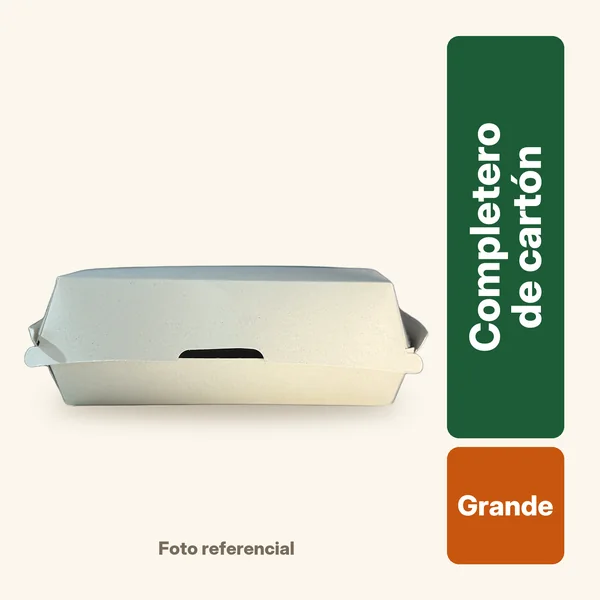
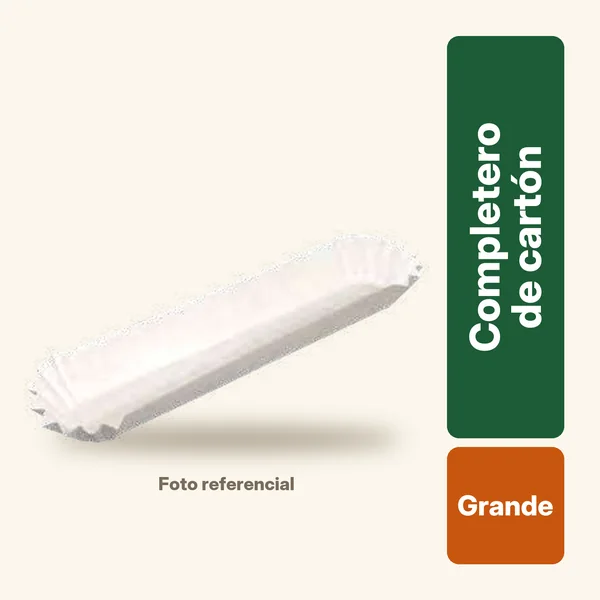
Precios por chat: caja torta kraft chica, completeros prepicado y grande (paquetes); foto del completero grande (bandeja, no caja cerrada)

Changed region(s): [[0.03, 0.42, 0.72, 0.84], [0.24, 0.9, 0.51, 0.93]]

diff --git a/carta/index.html b/carta/index.html
@@ -1529,9 +1529,9 @@ const LOCALES = {
       {cod:"PLA028",cat:"Envases y contenedores",nombre:"Cúpula torta chica lisa con tapa",detalle:"Precio por unidad",precio:650,stock:20,nuevo:true,pm:600},
       {cod:"CAR033",cat:"Cajas y bandejas de cartón",nombre:"Caja torta grande blanca",detalle:"Precio por unidad",precio:760,stock:39},
       {cod:"CAR025",cat:"Cajas y bandejas de cartón",nombre:"Caja genérica chica",detalle:"Precio por paquete de 25 u",precio:17000},
-      {cod:"CAR034",cat:"Cajas y bandejas de cartón",nombre:"Caja torta kraft chica",detalle:"Precio por unidad",precio:734,stock:19},
+      {cod:"CAR034",cat:"Cajas y bandejas de cartón",nombre:"Caja torta kraft chica",detalle:"Precio por unidad",precio:450,stock:19},
       {cod:"CAR017",cat:"Cajas y bandejas de cartón",nombre:"Bandeja redonda N° 10",detalle:"Precio por unidad",precio:270,stock:154,foto:"../img/productos/fotos/CAR017.webp",fotos:["../img/productos/fotos/CAR017.webp","../img/productos/fotos/CAR017-2.webp"]},
-      {cod:"CAR038",cat:"Cajas y bandejas de cartón",nombre:"Completero cartón grande",detalle:"Precio por unidad",precio:20,stock:400},
+      {cod:"CAR038",cat:"Cajas y bandejas de cartón",nombre:"Completero cartón grande",detalle:"Precio por unidad · paquete de 100 u",precio:40,upp:100,pq:3800,stock:400},
       {cod:"CAR040",cat:"Cajas y bandejas de cartón",nombre:"Completero chico pl.",detalle:"Precio por unidad",precio:90},
       {cod:"ANT-CAR007",cat:"Cajas y bandejas de cartón",nombre:"Caja pizza blanca grande",detalle:"Precio por unidad",precio:190,stock:59,retirado:true},
       {cod:"CAR027",cat:"Cajas y bandejas de cartón",nombre:"Caja kuchen chica",detalle:"Precio por unidad",precio:650,stock:48},
@@ -1554,7 +1554,7 @@ const LOCALES = {
       {cod:"CAR026",cat:"Cajas y bandejas de cartón",nombre:"Caja kraft 1400 ml delivery",detalle:"Precio por unidad",precio:350,stock:70,tramos:[[20,315]]},
       {cod:"CAR037",cat:"Cajas y bandejas de cartón",nombre:"Caja ventana talla L kraft (papa frita)",detalle:"Precio por unidad",precio:450,stock:115,foto:"../img/productos/fotos/CAR037.webp",tramos:[[20,350]]},
       {cod:"CAR042",cat:"Cajas y bandejas de cartón",nombre:"Envase papa frita chica cartón kraft",detalle:"Precio por unidad · paquete de 100 u",precio:80,stock:211,upp:100,pq:6500,foto:"../img/productos/fotos/CAR042.webp"},
-      {cod:"CAR039",cat:"Cajas y bandejas de cartón",nombre:"Completero cartón prepicado",detalle:"Precio por unidad · paquete de 50 u",precio:20,upp:50,stock:600,foto:"../img/productos/fotos/CAR039.webp",fotos:["../img/productos/fotos/CAR039.webp", "../img/productos/fotos/CAR039-2.webp"]},
+      {cod:"CAR039",cat:"Cajas y bandejas de cartón",nombre:"Completero cartón prepicado",detalle:"Precio por unidad · paquete de 50 u",precio:90,upp:50,pq:4100,stock:600,foto:"../img/productos/fotos/CAR039.webp",fotos:["../img/productos/fotos/CAR039.webp", "../img/productos/fotos/CAR039-2.webp"]},
       {cod:"CAR029",cat:"Cajas y bandejas de cartón",nombre:"Caja multiuso mediana",detalle:"Precio por unidad",precio:215,stock:62},
       {cod:"CAR022",cat:"Cajas y bandejas de cartón",nombre:"Bowl kraft 1300 cc",detalle:"Precio por unidad",precio:130,stock:0,sinStock:true,foto:"../img/productos/fotos/CAR022.webp"},
       {cod:"CAR030",cat:"Cajas y bandejas de cartón",nombre:"Caja multiuso pequeña kraft",detalle:"Precio por unidad",precio:140,stock:79},

diff --git a/CLAUDE.md b/CLAUDE.md
@@ -385,5 +385,6 @@ Pedido de David: «el stock que hay en bodega según la planilla actualizada que
 - **Tercera tanda por chat (23/11/2026, David: «CAR037 un $80, CAR028 $670 la unidad, CAR024 $650 un, CAR005 el paquete a 2500 y la unidad a $30, CAR045 $130 la unidad … en MyPyme»; códigos MyPyme):** carta CAR042 (= CAR037) $78 → $80 c/u (paquete de 100 sigue `pq:6500`), CAR032 (= CAR028) $671 → $670, CAR027 (= CAR024) $649 → $650, CAR005 $20 → $30 c/u y `pq:2500` nuevo, CAR051 (= CAR045) ya estaba en $130. Planilla 13: W de CAR005 30 (+ paquete en P), CAR024 650, CAR028 670, CAR037 80, CAR045 130 (respaldo planilla13Respaldo8).
 - **Precios en MyPyme (23/11/2026, David entró a MyPyme en el navegador de la app: «ya entré a MyPyme para que con la planilla vayas cambiando de inmediato los precios»; «la lista de precios se llama Emporio, a esa tienes que cambiarle, no a la lista Distribuidora»):** MyPyme tiene DOS listas de precio: «Emporio» (id 491, local exclusivo Emporio Sabroso; hasta ese día se llamaba «Inauguración») y «Distribuidora» (id 468, local Distribuidora Santa Bárbara; antes «CLIENTE»). Se cambia SOLO la lista Emporio. Cómo: menú → «Ficha de Artículo» (NUNCA abrir su URL directo: MyPyme cierra la sesión), código en «Código Interno» y salir del campo (o `$("#codigo").val(c); $("#busca_autocomplete").val(0); buscaArticulo()`); la tabla «Precios de Venta» (`#tabla_precios_venta`, DataTable de 3 filas por página: leer todas con `$("#tabla_precios_venta").dataTable().fnGetNodes()`) tiene una fila por lista y unidad de medida (Unidad, Paquete, Gramos, «50 gr», «100 gr», «250 gr»…, según las conversiones de «U.Medidas»); el lápiz verde (`modificaPrecio2`) abre «Agregar Precio»: escribir el «P.Venta Bruto» (`#p_venta_final`) y recalcular (keyup → `calcula_margen("f")`, que deja neto e IVA), «Registrar» (`#btn-guardar_precio`). Para cambiar un precio que ya existe, editar su fila: «Agregar Lista de Precio» con una lista y unidad que ya tienen precio no lo cambia (solo queda en el historial). Los tés y el cardamomo están en GRAMOS ($7,99 el gramo = $7.990 el kilo; cardamomo $90 el gramo) con un precio por bolsa («50 gr», «100 gr», «250 gr»). Hecho y verificado ese día en la lista Emporio: CON006 990, CAR067 200, CAR008 paquete 2.550 (la unidad $129 sigue), CAR009 150 y paquete 12.000, CAR037 80, CAR028 670, CAR024 650, CAR005 30 y paquete 2.500, CAR045 130, DES013 y DES015 bolsa 50 g 450, DES014 bolsa 100 g 850, GRA026 bolsa 250 g 19.590 (oferta sin fechas). La lista Distribuidora quedó como estaba (CON006 se cambió por error a 990 y se devolvió a 1.095 al minuto). En la lista Excel para MyPyme todo quedó con «Sí».
 - **Cuarta tanda por chat (23/11/2026; códigos MyPyme, cambiados en la carta, la planilla 13, MyPyme lista Emporio y la lista Excel):** CAR004 bandeja completero $20 → $30 c/u y `pq:4000` (paquete de 200); CAR020 envase redondo 1200 cc $130 → $280; CAR046 = CAR052 caja pollo ya en $250; CAR049 = CAR055 bandeja kraft extra grande pasa a «Precio por paquete de 20 u» $3.490 (antes $180 c/u; paquete de 20 según la planilla 13); CAR031 = CAR035 caja torta mediana $610 → $600; ALU018 paquete ya en $3.490; CAR058 = VAS009 vaso café 8 oz $120 c/u y ahora `upp:25`, `pq:2790` (paquete de 25 según la planilla 13; se quitaron sus `tramos` 25 u a $100 y 100 u a $85, que con paquete no se usan); CAR068 = POT004 pote BIO grande $90 → $220; CAR063 = PLA012 CT 3 bio $165 → $200 (su por mayor desde 20 u a $150 sigue); CAR029 = CAR033 caja torta grande $769 → $760; CAR025 = CAR028 caja kuchen grande $649 → $650. En MyPyme a CAR049 y CAR058 se les agregó la conversión «Paquete = 20» / «Paquete = 25» (pestaña U.Medidas, `guardarUmFc`) y su precio por paquete en la lista Emporio; su precio por unidad sigue. Respaldo planilla13Respaldo9.
+- **Quinta tanda por chat (23/11/2026; carta, planilla 13, MyPyme lista Emporio y lista Excel):** CAR030 = CAR034 caja torta kraft chica $734 → $450; CAR035 = CAR039 completero cartón prepicado $20 → $90 c/u y `pq:4100` (paquete de 50; MyPyme ya los tenía); David dijo también «10 und 990», pero 10 × $90 = $900: FALTA que lo aclare (no se puso). CAR034 = CAR038 completero cartón grande (85 × 265 mm) $20 → $40 c/u, `upp:100`, `pq:3800` (en MyPyme se agregó la conversión Paquete = 100 y su precio). Foto de CAR038 cambiada (David: «la imagen no es esa, es solo la parte de abajo del completo, no el cerrado»): ahora la «Bandeja cartulina completo» gigante 7 × 26 cm del catálogo Vanni (pág. 11, recorte con transparencia) en ficha con «Completero de cartón / Grande» y «Foto referencial» (`completero/fichaRecorte.py` del scratchpad). La de CAR039 (prepicado) sigue siendo la caja cerrada. Respaldo planilla13Respaldo10.
 - **MyPyme completo (23/11/2026):** el informe de artículos con «Local» = Emporio Sabroso trae 511; con «Todos», 646 (Distribuidora y Supermercado Santa Bárbara comparten los códigos). Ojo: LAC010 ya es en MyPyme «Queso laminado Frutillar gauda 500gr» (otro local), y la planilla 13 lo usa para la mantequilla panificadora 250 g; INS007 bandeja recolectora no está en la carta.
 - Para instalar (con el sí de David): 1) pegar el .gs y el Panel.html nuevos en el proyecto de Apps Script de la planilla EM27-0802 (no se agregan servicios de Google); 2) versión nueva en las TRES implementaciones (catálogo AKfycbzP…, SabAPP vendedores AKfycbxONg…, SabAPP correo y clave AKfycbzezl…); 3) publicar la carta y sabapp/ (`node herramientas/sabapp/construir.js` ya corrido). El orden no rompe nada: con el script viejo la carta nueva solo manda un campo de más y la SabAPP web no muestra «Editar pedido».
